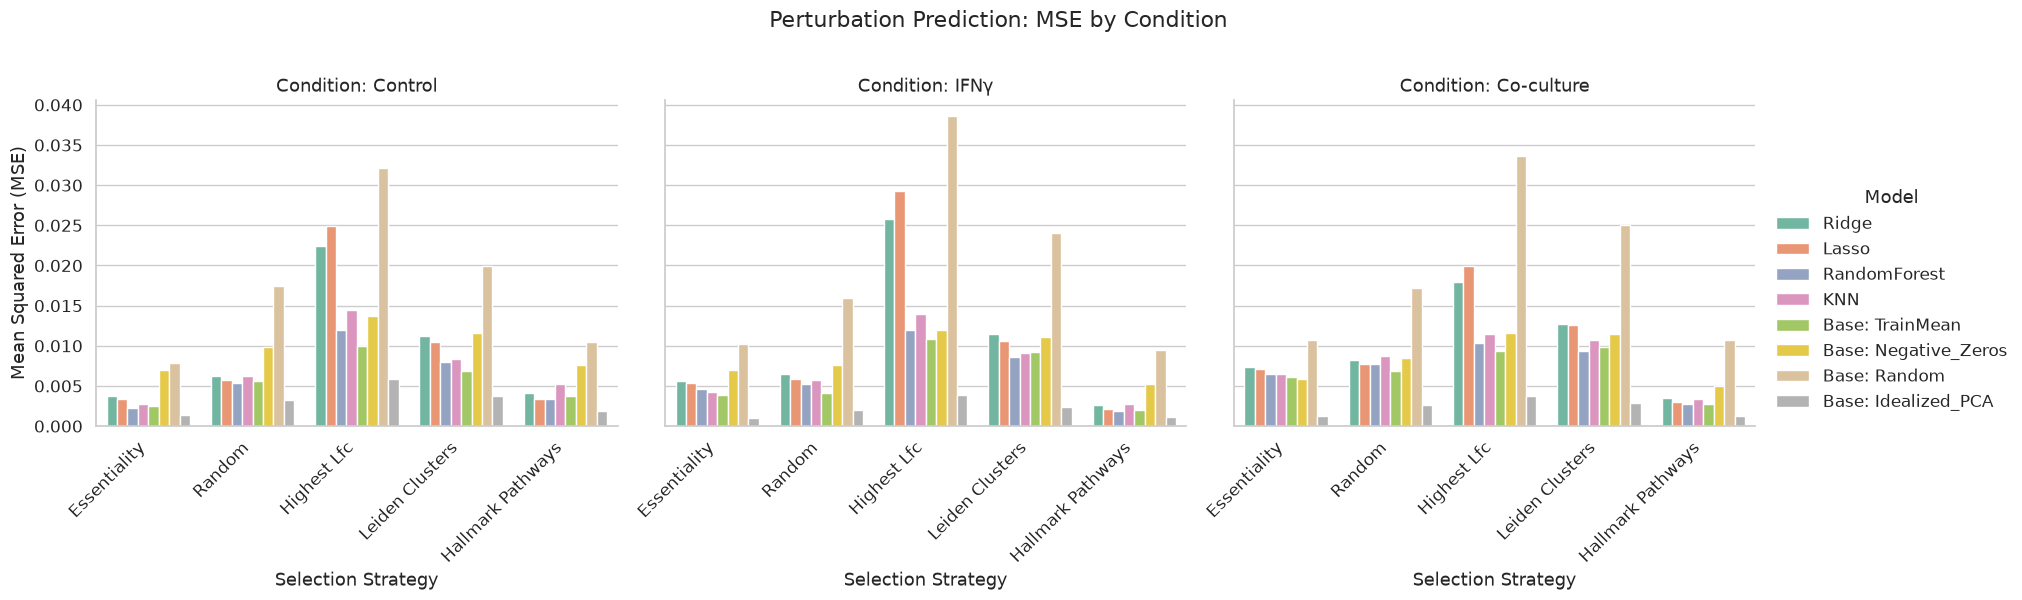
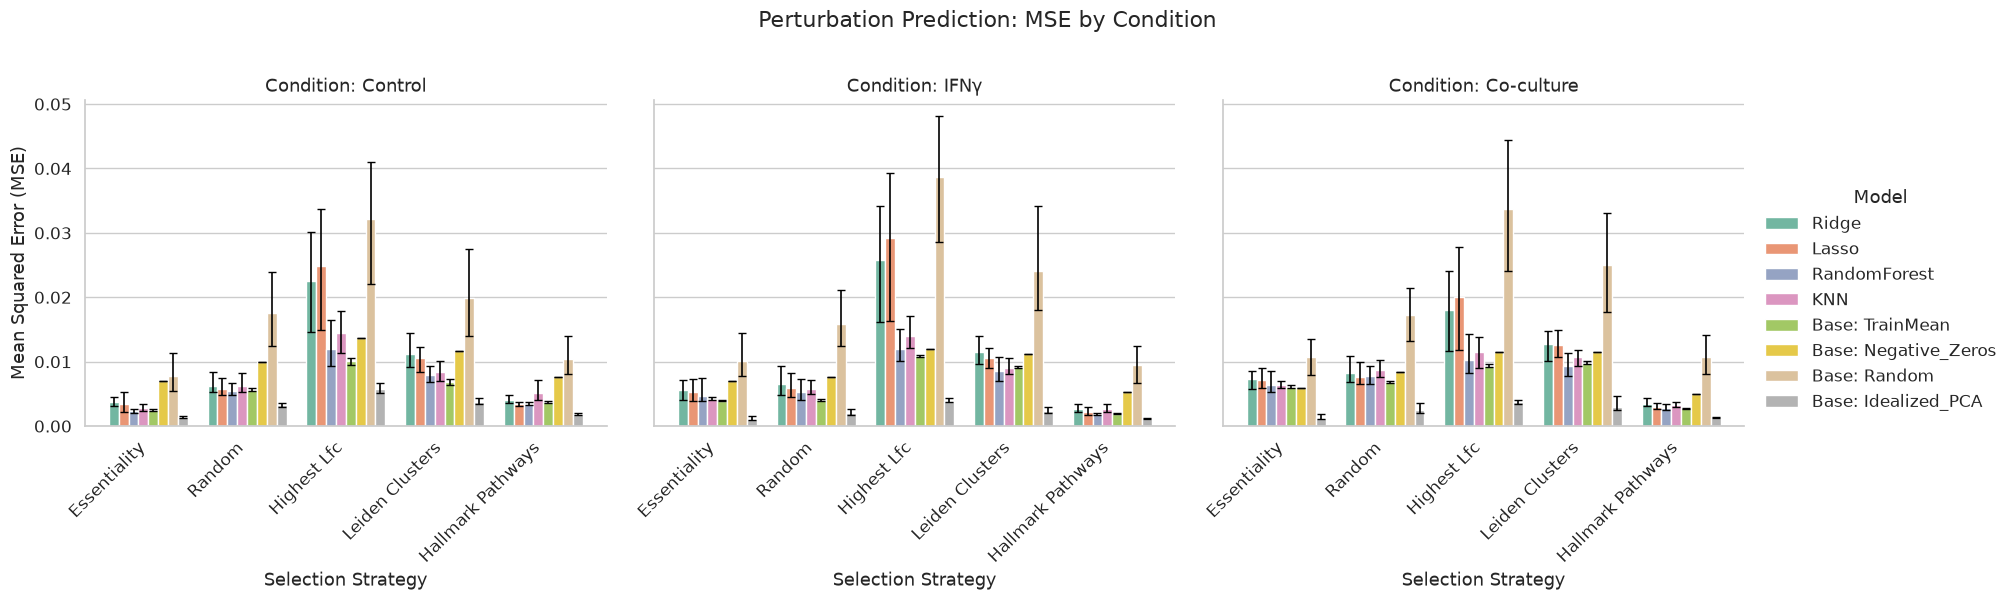
updated error bars

diff --git a/scripts/t3_approach3_04_evaluation_plotting.py b/scripts/t3_approach3_04_evaluation_plotting.py
@@ -7,6 +7,49 @@ from sklearn.metrics import mean_squared_error
 from scipy.stats import pearsonr
 import os
 
+def add_custom_errorbars(g, df, metric):
+    """
+    Adds custom asymmetric error bars to a seaborn catplot by computing the exact x-axis offset for each grouped bar.
+    """
+    strategies = df['Strategy'].unique()
+    models = df['Model'].unique()
+    
+    n_models = len(models)
+    
+    # Seaborn allocates a total width of 0.8 per group by default
+    width = 0.8 / n_models
+    offsets = np.linspace(-0.4 + width/2, 0.4 - width/2, n_models)
+    
+    for ax in g.axes.flat:
+        title = ax.get_title()
+        if not title:
+            continue
+            
+        # Extract condition name from the facet title (e.g., 'Condition: Control' -> 'Control')
+        cond_name = title.split(': ')[-1]
+        cond_df = df[df['Condition'] == cond_name]
+        
+        for s_idx, strategy in enumerate(strategies):
+            for m_idx, model in enumerate(models):
+                row = cond_df[(cond_df['Strategy'] == strategy) & (cond_df['Model'] == model)]
+                if not row.empty:
+                    val = row[metric].values[0]
+                    low = row[f"{metric}_CI_Lower"].values[0]
+                    high = row[f"{metric}_CI_Upper"].values[0]
+                    
+                    lower_err = max(0.0, val - low)
+                    upper_err = max(0.0, high - val)
+                    
+                    x_pos = s_idx + offsets[m_idx]
+                    
+                    # Draw the Fehlerbalken
+                    ax.errorbar(
+                        x_pos, val, 
+                        yerr=[[lower_err], [upper_err]], 
+                        fmt='none', color='black', capsize=3, 
+                        linewidth=1.2, zorder=5
+                    )
+
 def main():
     os.makedirs("../results", exist_ok=True)
     
@@ -99,11 +142,14 @@ def main():
         height=5,
         aspect=1.2,
     )
+    
     g1.set_axis_labels('Selection Strategy', 'Mean Pearson Correlation (r)')
     g1.set_titles(col_template='Condition: {col_name}')
     g1.set_xticklabels(rotation=45, ha='right')
     g1.fig.subplots_adjust(top=0.8)
     g1.fig.suptitle('Perturbation Prediction: Pearson Correlation by Condition')
+    # Add custom error bars for Pearson_r
+    add_custom_errorbars(g1, df_results, 'Pearson_r')
     plt.savefig("../results/task3_pearson_strategies_plot.png", bbox_inches='tight')
     plt.show()
 
@@ -119,11 +165,16 @@ def main():
         height=5,
         aspect=1.2,
     )
+    
+    # Add custom error bars for MSE
+    add_custom_errorbars(g2, df_results, 'MSE')
+    
     g2.set_axis_labels('Selection Strategy', 'Mean Squared Error (MSE)')
     g2.set_titles(col_template='Condition: {col_name}')
     g2.set_xticklabels(rotation=45, ha='right')
     g2.fig.subplots_adjust(top=0.8)
     g2.fig.suptitle('Perturbation Prediction: MSE by Condition')
+    add_custom_errorbars(g2, df_results, 'MSE')
     plt.savefig("../results/task3_mse_strategies_plot.png", bbox_inches='tight')
     plt.show()
     

diff --git a/README.md b/README.md
@@ -12,7 +12,6 @@ The dataset contains melanoma cells measured under three experimental conditions
 - **IFNγ** — cells treated with interferon gamma
 - **Co-culture** — cells co-cultured with tumor-infiltrating lymphocytes for 48 hours
 
-> The original dataset and detailed experimental procedures are described by Frangieh et al. (2021).
 
 ## Project Tasks
 
@@ -22,9 +21,9 @@ The dataset contains melanoma cells measured under three experimental conditions
 
 The project compares several machine-learning approaches, including:
 
-- Logistic regression
-- Random forest
-- Multilayer perceptron
+- Logistic regression `t1_logistic_regression.ipynb`
+- Random forest `t1_RF.ipynb`
+- Neural Networks / Multilayer perceptron `t1_RF.ipynb`
 
 The results include:
 
@@ -33,19 +32,16 @@ The results include:
 - Feature importance
 - Candidate driver genes for each condition
 
+
 ### 2. Clustering
 
 **Objective:** Identify cellular structure and compare clustering methods.
 
-The clustering workflow includes:
+The following clustering methods are includes:
 
-- Quality-controlled and normalized expression data
-- Dimension reduction
-- K-means clustering
-- Leiden clustering
-- Hierarchical clustering
-- Visualization using UMAP and t-SNE
-- Comparison with biological findings reported in the original publication
+- K-means clustering `t2_k-means.ipynb`
+- Leiden clustering `t2_leiden.ipynb`
+- Hierarchical clustering `t2_hierachical.ipynb`
 
 ### 3. Perturbation Prediction
 
@@ -53,15 +49,7 @@ The clustering workflow includes:
 
 The prediction target is the mean log fold change associated with a perturbation under a given condition.
 
-The project investigates:
 
-- Baseline and regularized regression models
-- Random forest models
-- Multiple feature-engineering strategies
-- Different perturbation-selection and data-splitting strategies
-- Prediction uncertainty
-- Bias–variance trade-offs
-- Potential integration of protein measurements using MOFA
 
 ## Analysis Pipeline
 
